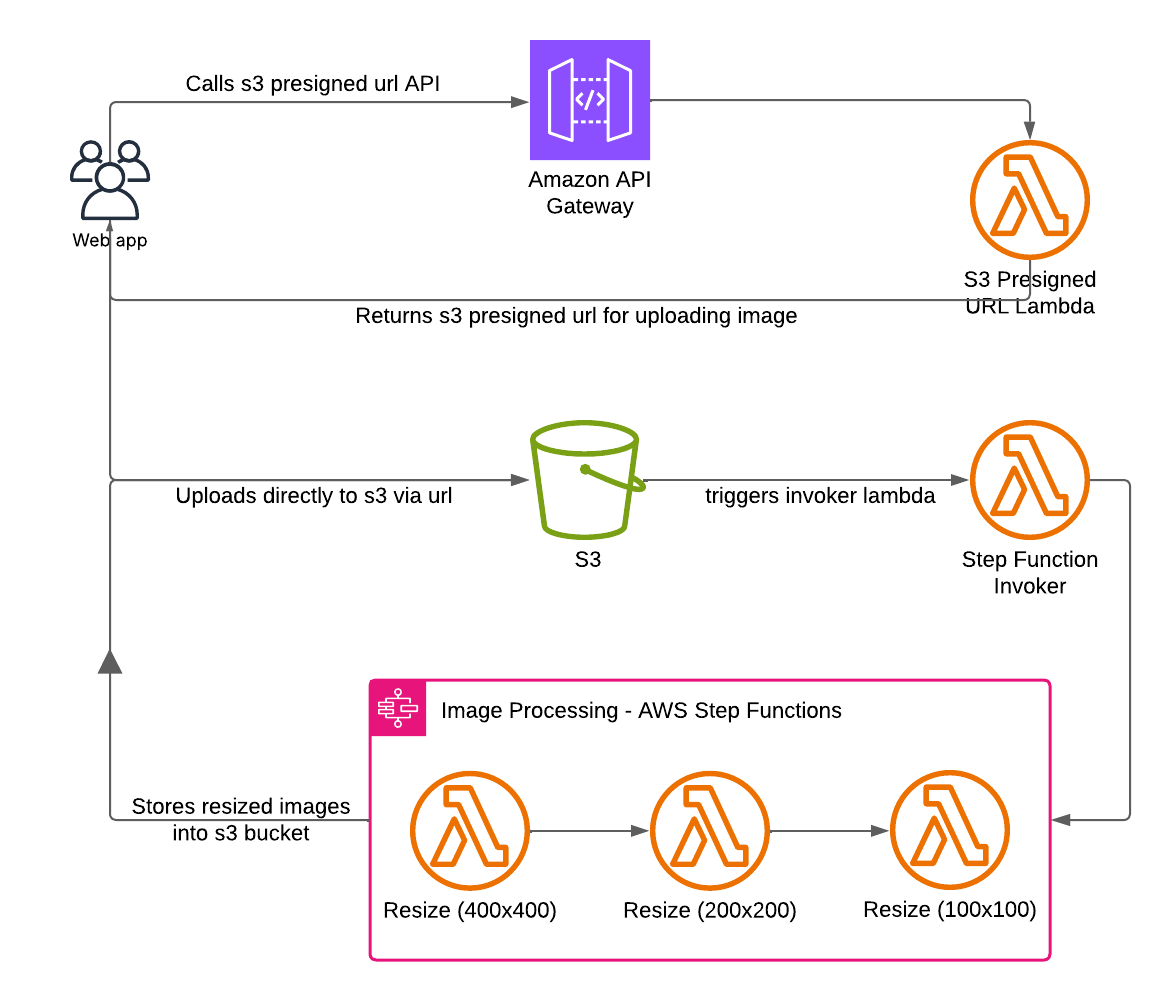
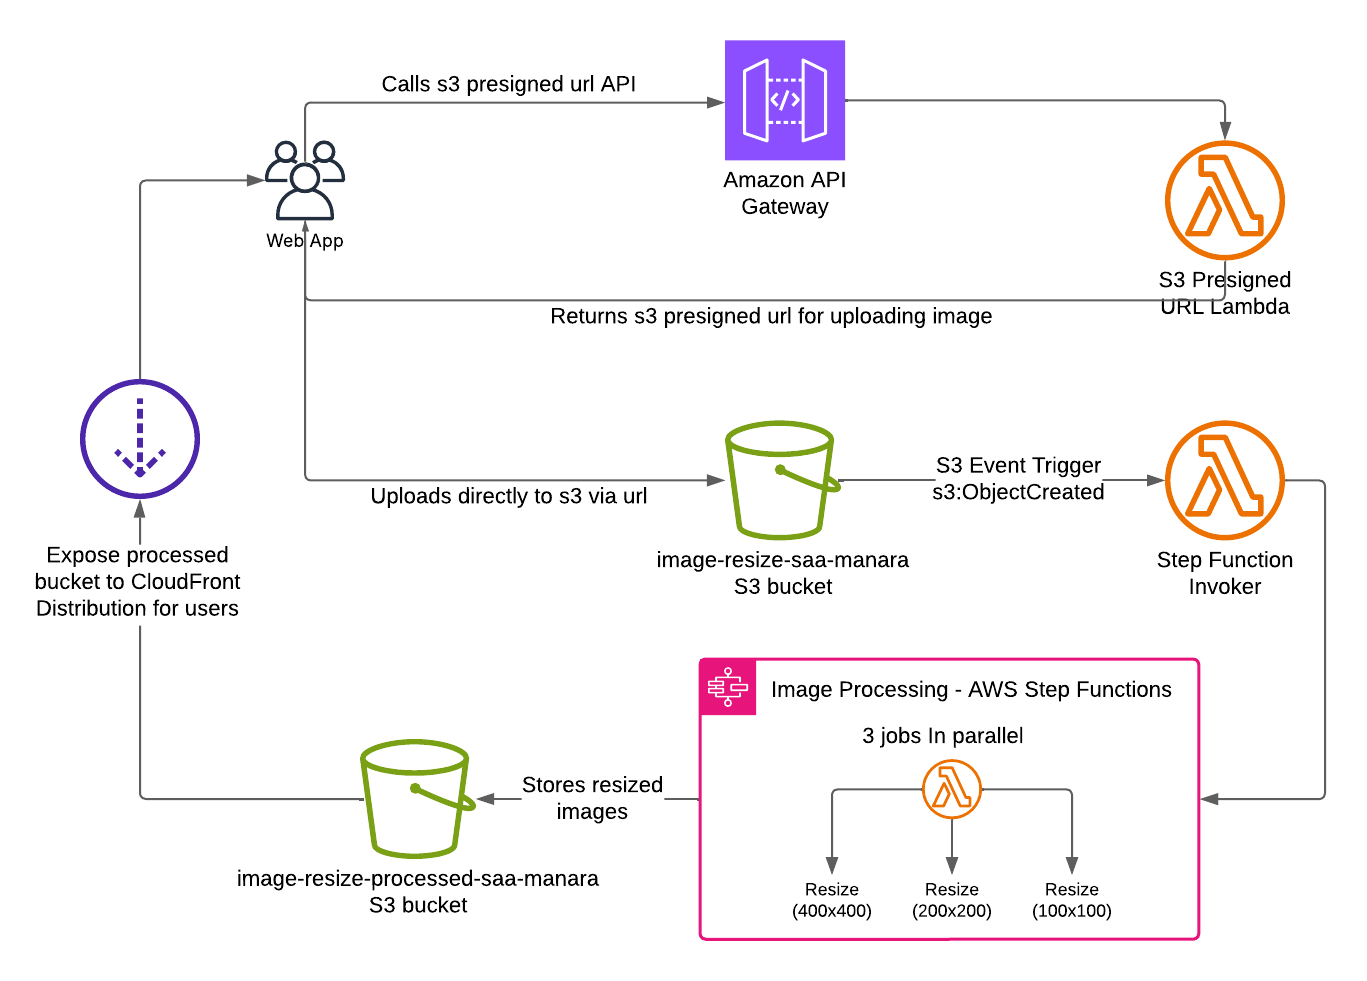
update architecture and docs

Changed region(s): [[0.0308, 0.0917, 0.9846, 0.9786], [0.1538, 0.0306, 0.9538, 0.3364]]

diff --git a/README.md b/README.md
@@ -20,6 +20,7 @@ This project demonstrates a scalable, event-driven, and cost-effective serverles
 *   **AWS CloudWatch**: For logging and monitoring.
 *   **Amazon API Gateway**: To expose a public REST API endpoint for clients to request upload URLs.
 *   **AWS Lambda**: For running the application logic for both generating pre-signed URLs and processing images.
+*   **AWS CloudFront**: For Exposing processed images for public access, and use as a CDN.
 *   **Pillow (PIL)**: The image processing library used for resizing.
 
 ## How It Works
@@ -85,6 +86,8 @@ I set it up manually in the AWS Console, but also it can be automated with IaC t
     *   For the `ImageProcessingInvokerRole-SAA-Manara`, nothing much besides proper permissions and simple python script that invoke step function.
 4.  **Configure S3 Trigger**: Configure the source S3 bucket to trigger the `ImageProcessingInvokerLambda-SAA-Manara` on `s3:ObjectCreated:Put` events.
 5.  **Set up API Gateway**: Create a REST API, I added a `/upload-image` resource with a `POST` method, and integrate it with the `GeneratePresignedURL-SAA-Manara` using Lambda Proxy Integration. **Enabled CORS**. Deployed the API to a stage `v1`.
+6.  **Set up CloudFront**: From CloudFront service in the AWS Console, create a new distribution and select S3 destination bucket as Origin domain. AWS will prompt for automatically changing bucket policies to permit only cloudfront for accesing the bucket while it maintains private. You'll be assigned a public url for accessing your files via path like normal.
+
 
 ## Usage
 
